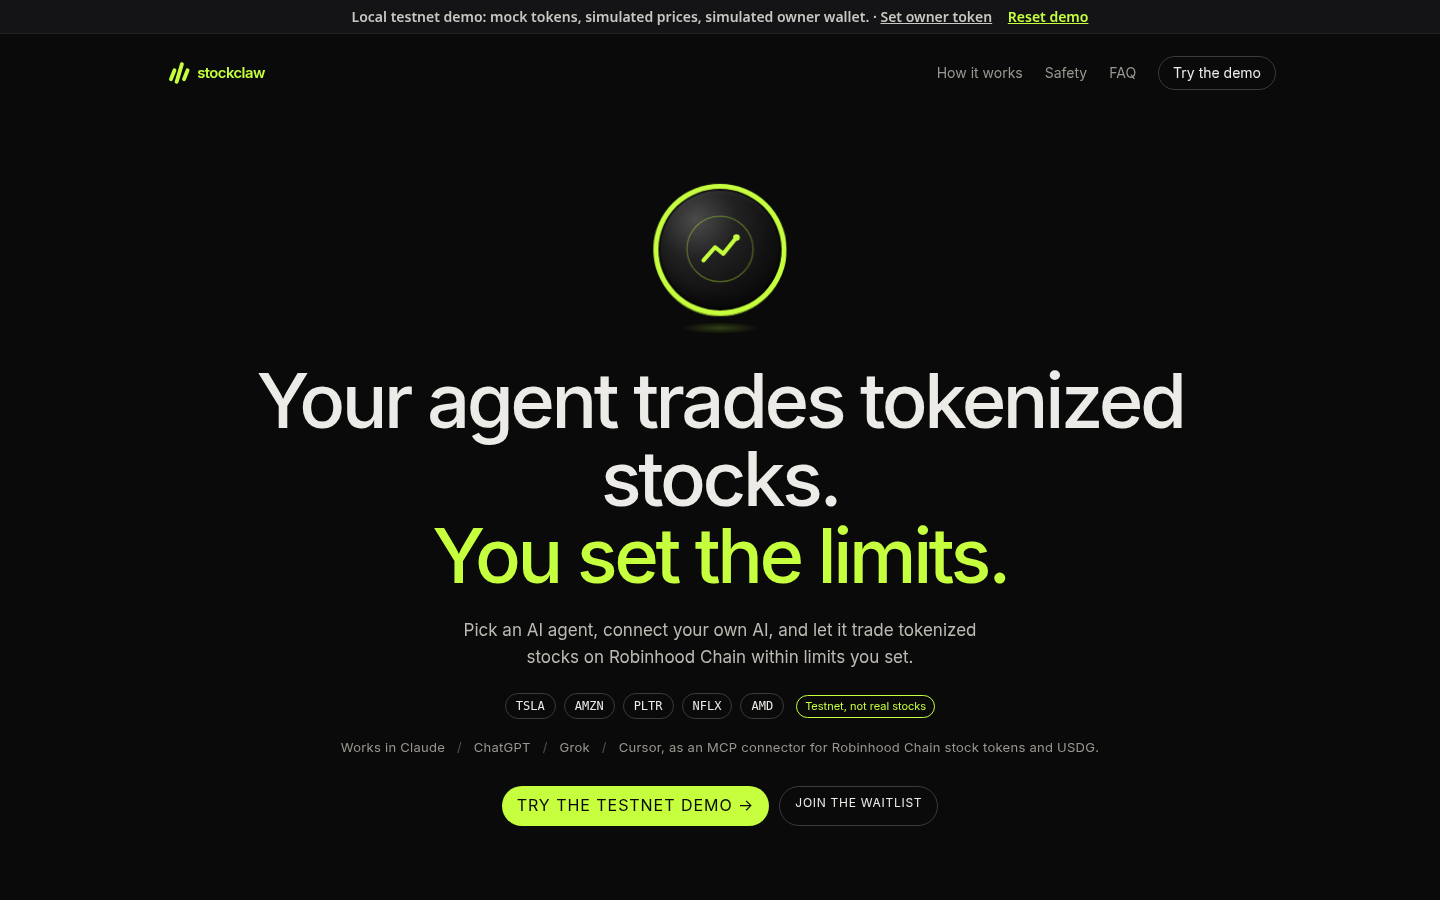
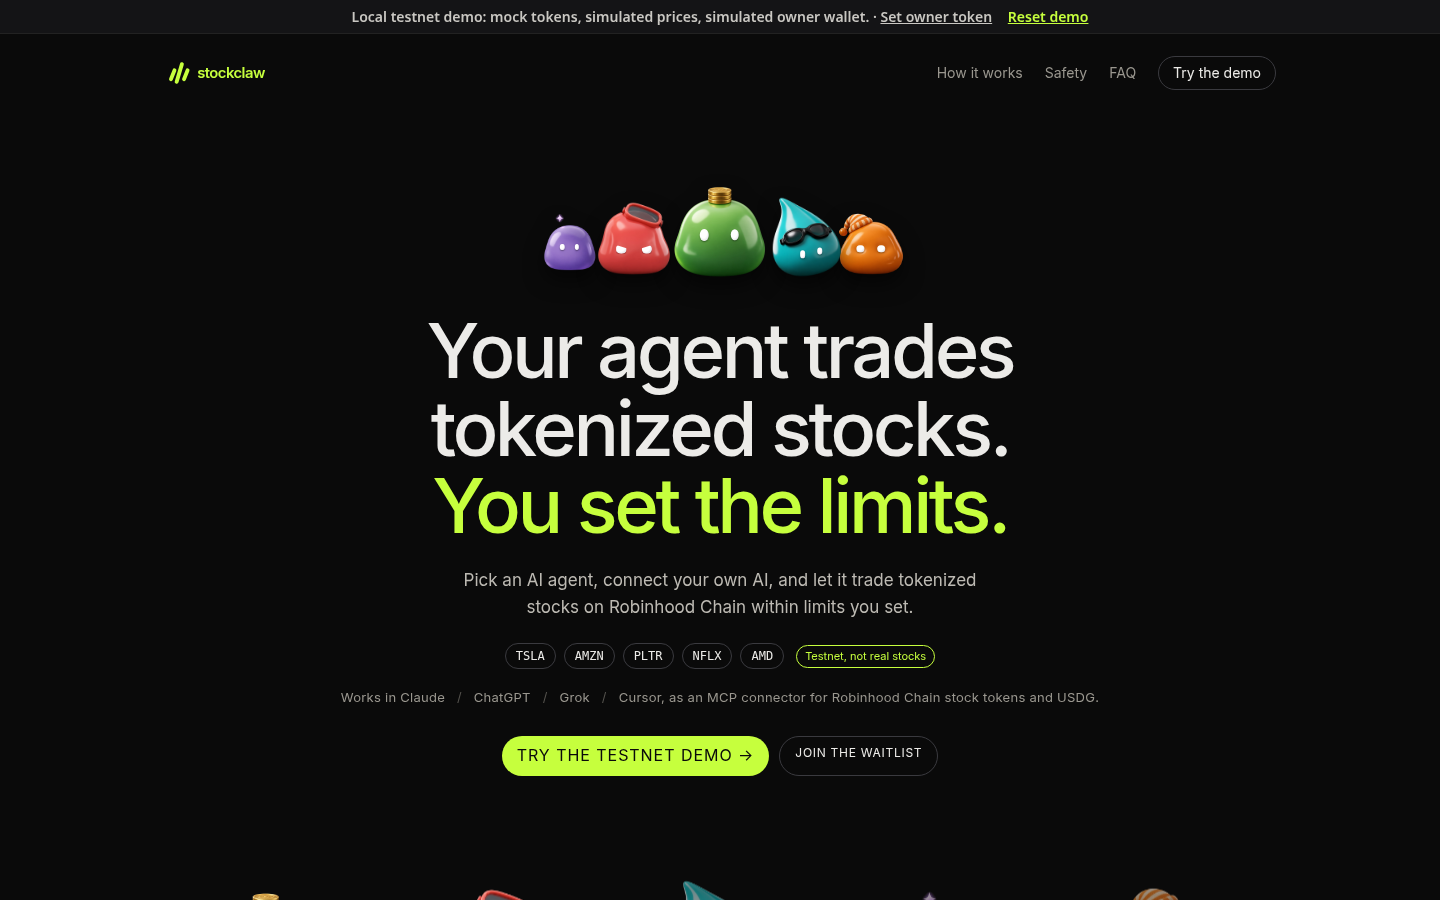
landing: family-picture hero of the 5 agents (shared eyes), remove coin, balanced headline break

diff --git a/prototype/landing.js b/prototype/landing.js
@@ -10,13 +10,12 @@ const BOTS=[
  ["weekend-edge","Weekend Edge","Queues limit orders over the weekend for the Monday open.",0]];
 const FAQ=[["What are stock tokens?","Tokens on Robinhood Chain that track the price of a stock, traded here against USDG. They are not shares. In this demo they are testnet tokens from the Robinhood Chain faucet, with mock prices and no value."],["Who is eligible?","Not US persons, and not residents of the US, Canada, the UK, Switzerland, the UAE, Russia or sanctioned countries. We check your country, you sign an attestation with your wallet, and your smart wallet must be on our onchain eligibility list before it can trade. An identity-check provider is still being chosen."],["Do you hold my keys?","You own your wallet. We never hold its owner key. Your agent uses a limited key you can revoke anytime."],["What fees apply?","0.30% per trade, taken from the input token. Quotes are shown net of the fee."],["How do I stop my agent?","Revoke the agent key from the dashboard in one click. Keys also expire after 7 days."],["Are strategies advice?","No. They are templates: you choose the parameters and StockClaw executes them within your limits. Tools, not investment advice. Final copy pending."],["Is this real money?","No. This is a testnet demo; tokens and prices are mocks."]];
 const bot=(id,n)=>window.SCEyes?SCEyes.html(id,n,144):`<img src="avatars/final-${id}.png" width="144" height="144" alt="${n} mascot">`;
-const coin=`<div class="lp-coin" aria-hidden="true"><div class="lp-coin-in"><div class="lp-face"><svg viewBox="0 0 100 100"><circle cx="50" cy="50" r="40" fill="none" stroke="currentColor" stroke-opacity=".35" stroke-width="1.5"/><path d="M30 64 L44 48 L54 56 L70 36" fill="none" stroke="currentColor" stroke-width="5" stroke-linecap="round" stroke-linejoin="round"/><circle cx="70" cy="36" r="4" fill="currentColor"/></svg></div><div class="lp-edge"></div></div><div class="lp-shadow"></div></div>`;
 function Landing(){return `<div class="lp">
 <header class="lp-nav"><a class="lp-logo" href="#/"><img src="logo-lockup.svg" width="110" height="28" alt="StockClaw home"></a>
 <nav aria-label="Main"><a href="#lp-how">How it works</a><a href="#lp-safety">Safety</a><a href="#lp-faq">FAQ</a><a class="lp-pill" href="#/onboarding/eligibility">Try the demo</a></nav></header>
 <section class="lp-hero" aria-labelledby="lp-h1">
-${coin}
-<h1 id="lp-h1">Your agent trades tokenized stocks.<br><em>You set the limits.</em></h1>
+${(()=>{const F=[["ai-thematic","AI Thematic",84],["dip-hunter","Dip Hunter",104],["steady-stacker","Steady Stacker",128],["trend-flip","Trend Flip",104],["weekend-edge","Weekend Edge",84]];return `<div class="lp-fam" role="img" aria-label="The five StockClaw agents: ${F.map(f=>f[1]).join(", ")}">${F.map(([id,n,z],i)=>`<div class="lp-fm lp-fm${i}" aria-hidden="true">${window.SCEyes?SCEyes.html(id,"",z):`<img src="avatars/final-${id}-transparent.png" width="${z}" height="${z}" alt="">`}</div>`).join("")}</div>`})()}
+<h1 id="lp-h1">Your agent trades<br>tokenized stocks.<br><em>You set the limits.</em></h1>
 <p class="lp-sub">Pick an AI agent, connect your own AI, and let it trade tokenized stocks on Robinhood Chain within limits you set.</p>
 <p class="lp-chips" aria-label="Tradeable on testnet">${["TSLA","AMZN","PLTR","NFLX","AMD"].map(t=>`<span class="lp-chip">${t}</span>`).join("")}${BADGE}</p>
 <p class="lp-clients">Works in Claude <span aria-hidden="true">/</span> ChatGPT <span aria-hidden="true">/</span> Grok <span aria-hidden="true">/</span> Cursor, as an MCP connector for Robinhood Chain stock tokens and USDG.</p>
@@ -40,6 +39,6 @@ ${FAQ.map(([q,a])=>`<details><summary>${q}</summary><p>${a}</p></details>`).join
 </div>`}
 function LandingBind(){const f=document.getElementById("lp-form");if(!f)return;f.onsubmit=e=>{e.preventDefault();const i=f.querySelector("input"),m=document.getElementById("lp-msg");if(!i.checkValidity()){i.setAttribute("aria-invalid","true");m.textContent="Enter a valid email address.";i.focus();return}i.removeAttribute("aria-invalid");m.textContent="You're on the waitlist (mock, nothing is sent).";f.querySelector("button").disabled=true}}
 function mark(){const p=(location.hash.slice(1)||"/").split("?")[0];document.body.classList.toggle("is-landing",!(p in R)||p==="/")}
-R["/"]=[Landing,()=>{LandingBind();window.SCEyes&&SCEyes.init(document.querySelector(".lp-line"))}];
+R["/"]=[Landing,()=>{LandingBind();window.SCEyes&&SCEyes.init(document.querySelector(".lp"))}];
 addEventListener("hashchange",mark);mark();render();
 })();

diff --git a/prototype/landing.css b/prototype/landing.css
@@ -21,15 +21,6 @@ body.is-landing .tnbar{background:#141416;color:#c9c7c2;border-bottom:1px solid 
 .lp-btn{background:var(--or);color:#0A0A0A!important;border:0;border-radius:999px;padding:7px 15px;font:600 12px/1.4 inherit;letter-spacing:.06em;text-transform:uppercase;text-decoration:none;cursor:pointer}
 .lp-btn:hover{background:#D9FF7A}.lp-btn:disabled{opacity:.5}
 .lp-ghost{border:1px solid #3a3a3f;border-radius:999px;padding:6px 15px;font-size:12px;letter-spacing:.06em;text-transform:uppercase;text-decoration:none}
-/* coin */
-.lp-coin{width:132px;height:150px;margin:0 auto;perspective:700px;position:relative}
-.lp-coin-in{width:132px;height:132px;position:relative;transform-style:preserve-3d;animation:lpspin 9s linear infinite}
-.lp-face,.lp-edge{position:absolute;inset:0;border-radius:50%}
-.lp-face{display:grid;place-items:center;color:#C6FF3D;background:radial-gradient(circle at 32% 28%,#4a4a4a 0,#222 30%,#111 60%,#050505 100%);box-shadow:inset 0 0 0 5px #C6FF3D,inset 0 0 0 7px rgba(0,0,0,.6),inset 0 -10px 18px rgba(0,0,0,.6),inset 0 6px 10px rgba(255,255,255,.12);transform:translateZ(7px);backface-visibility:hidden}
-.lp-face svg{width:62%}
-.lp-edge{background:linear-gradient(90deg,#4d6b10,#C6FF3D,#4d6b10);transform:translateZ(-7px) rotateY(180deg);box-shadow:inset 0 0 0 6px rgba(0,0,0,.35)}
-.lp-shadow{position:absolute;left:26px;right:26px;bottom:0;height:12px;border-radius:50%;background:radial-gradient(rgba(198,255,61,.22),transparent 70%)}
-@keyframes lpspin{0%{transform:rotateY(-25deg) rotateX(8deg)}50%{transform:rotateY(25deg) rotateX(8deg)}100%{transform:rotateY(-25deg) rotateX(8deg)}}
 /* lineup */
 .lp-line{padding:56px 0 24px}
 .lp-line ul{list-style:none;margin:0;padding:0;display:grid;grid-template-columns:repeat(5,1fr);gap:24px;text-align:center}
@@ -78,7 +69,14 @@ body.is-landing .tnbar{background:#141416;color:#c9c7c2;border-bottom:1px solid 
 .lp-foot{border-top:1px solid var(--line);padding-top:28px;font-size:12px;color:var(--mut)}
 .lp-disc{color:var(--mut);margin:0 0 8px}
 @media (max-width:860px){.lp-line ul{grid-template-columns:repeat(2,1fr);row-gap:40px}.lp-line li:first-child{grid-column:1/-1}.lp-sec{grid-template-columns:1fr}.lp-sec>*,.lp-sec>.lp-k{grid-column:1;grid-row:auto}.lp-facts{grid-template-columns:1fr 1fr}.lp-nav nav a:not(.lp-pill){display:none}.lp-hero{padding:40px 0 24px}.lp-bot{width:120px;height:120px}}
-@media (prefers-reduced-motion:reduce){.lp-bot{animation:none}.lp-bot.blink .lp-eye{transform:translate(-50%,-50%)}.lp-coin-in{animation:none;transform:rotateY(-18deg) rotateX(8deg)}}
+@media (prefers-reduced-motion:reduce){.lp-bot{animation:none}.lp-bot.blink .lp-eye{transform:translate(-50%,-50%)}}
 
 .lp-logo{display:inline-flex}.lp-logo img{height:28px;width:auto;display:block}
 .lp-chips{display:flex;flex-wrap:wrap;gap:8px;justify-content:center;align-items:center;margin:22px 0 0}.lp-chip{font:12px/1 ui-monospace,Menlo,monospace;color:var(--fg);border:1px solid #3a3a3f;border-radius:999px;padding:6px 10px}.lp-chips .lp-badge{margin-left:4px}
+.lp-hero h1{text-wrap:balance}
+.lp-fam{display:flex;justify-content:center;align-items:flex-end;height:140px;margin:0 auto}
+.lp-fm{position:relative;filter:drop-shadow(0 10px 10px rgba(0,0,0,.55))}
+.lp-fm .lp-bot{margin:0}
+.lp-fm0{margin-right:-30px;z-index:1;transform:translateY(-6px)}.lp-fm1{margin-right:-30px;z-index:2}.lp-fm2{z-index:3;transform:translateY(4px)}.lp-fm3{margin-left:-30px;z-index:2}.lp-fm4{margin-left:-30px;z-index:1;transform:translateY(-6px)}
+@media (max-width:520px){.lp-fam{transform:scale(.78);height:112px;transform-origin:bottom center;margin-bottom:-4px}}
+.lp-hero{padding-top:40px}.lp-hero h1{margin-top:20px}

diff --git a/prototype/index.html b/prototype/index.html
@@ -1,8 +1,8 @@
 <!doctype html><html lang="en"><head><meta charset="utf-8"><meta name="viewport" content="width=device-width,initial-scale=1">
-<link rel="icon" href="favicon.svg" type="image/svg+xml"><link rel="icon" href="favicon-32.png" sizes="32x32"><title>StockClaw prototype (testnet)</title><link rel="stylesheet" href="app.css?v=17b"><link rel="stylesheet" href="landing.css?v=7"><link rel="stylesheet" href="dashboard.css?v=2"></head><body>
+<link rel="icon" href="favicon.svg" type="image/svg+xml"><link rel="icon" href="favicon-32.png" sizes="32x32"><title>StockClaw prototype (testnet)</title><link rel="stylesheet" href="app.css?v=17b"><link rel="stylesheet" href="landing.css?v=9"><link rel="stylesheet" href="dashboard.css?v=2"></head><body>
 <a class="skip" href="#main">Skip to content</a>
 <div class="tnbar" role="note"><span class="bn-t">Local testnet demo: mock tokens, simulated prices, simulated owner wallet.</span> <span class="bn-o"></span> <a href="#" id="reset">Reset demo</a></div>
 <main id="main" tabindex="-1"></main>
 <div id="live" class="sr" aria-live="polite"></div>
 <div id="modal" hidden></div>
-<script src="api.js?v=16"></script><script src="app.js?v=19"></script><script src="eyes.js?v=1"></script><script src="landing.js?v=7"></script><script src="dashboard.js?v=2"></script></body></html>
+<script src="api.js?v=16"></script><script src="app.js?v=19"></script><script src="eyes.js?v=1"></script><script src="landing.js?v=8"></script><script src="dashboard.js?v=2"></script></body></html>
